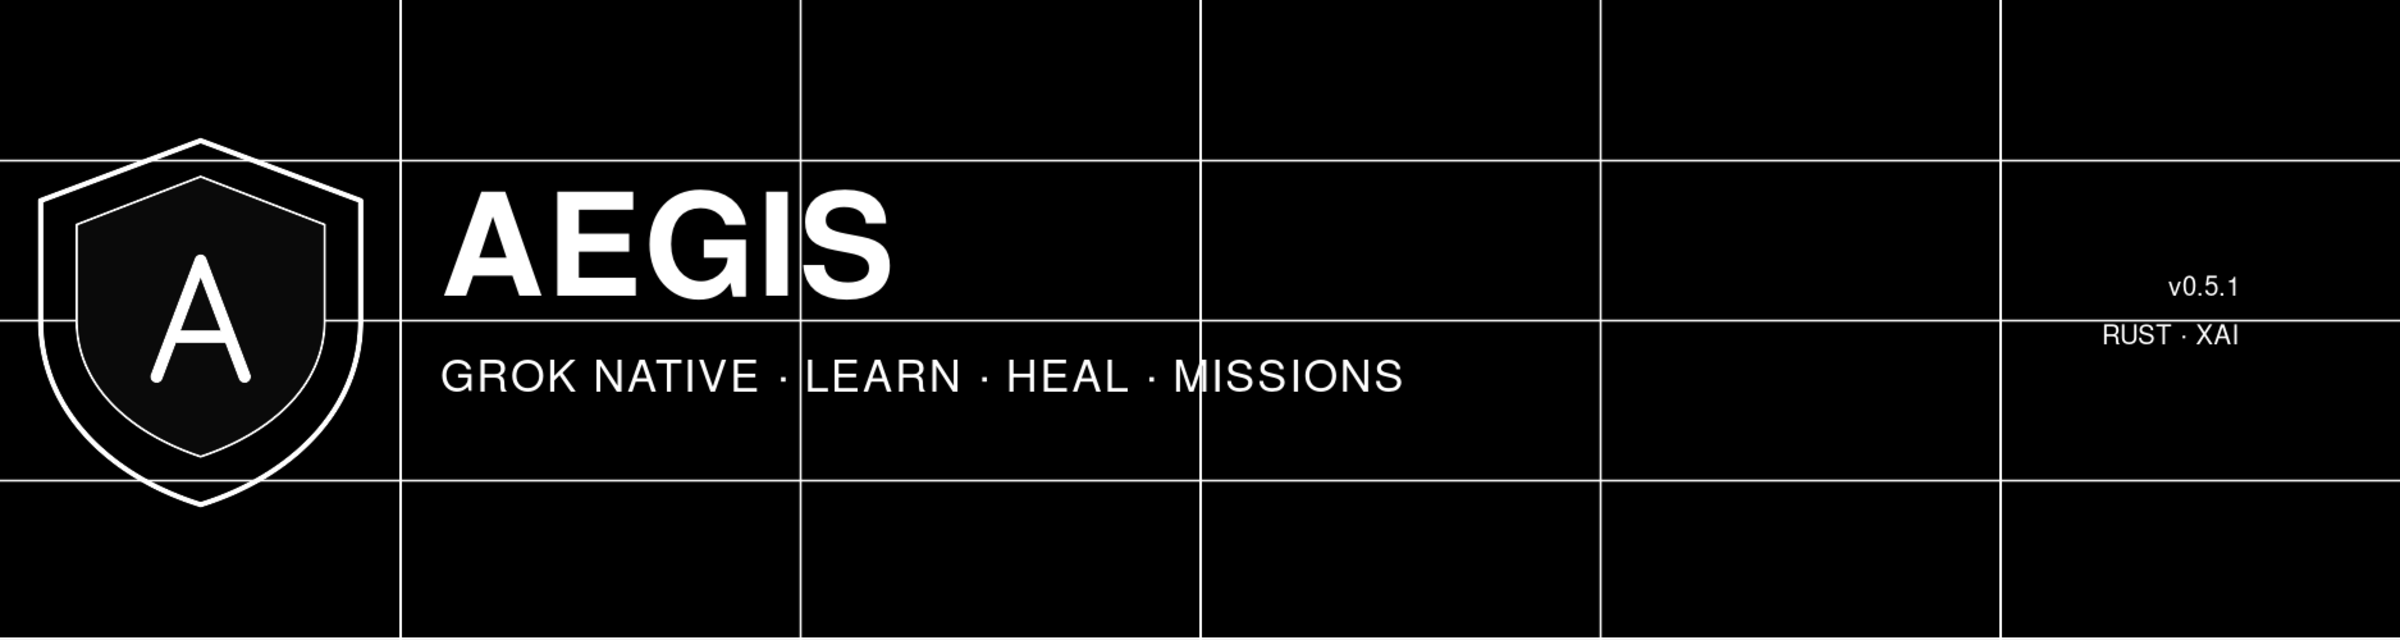
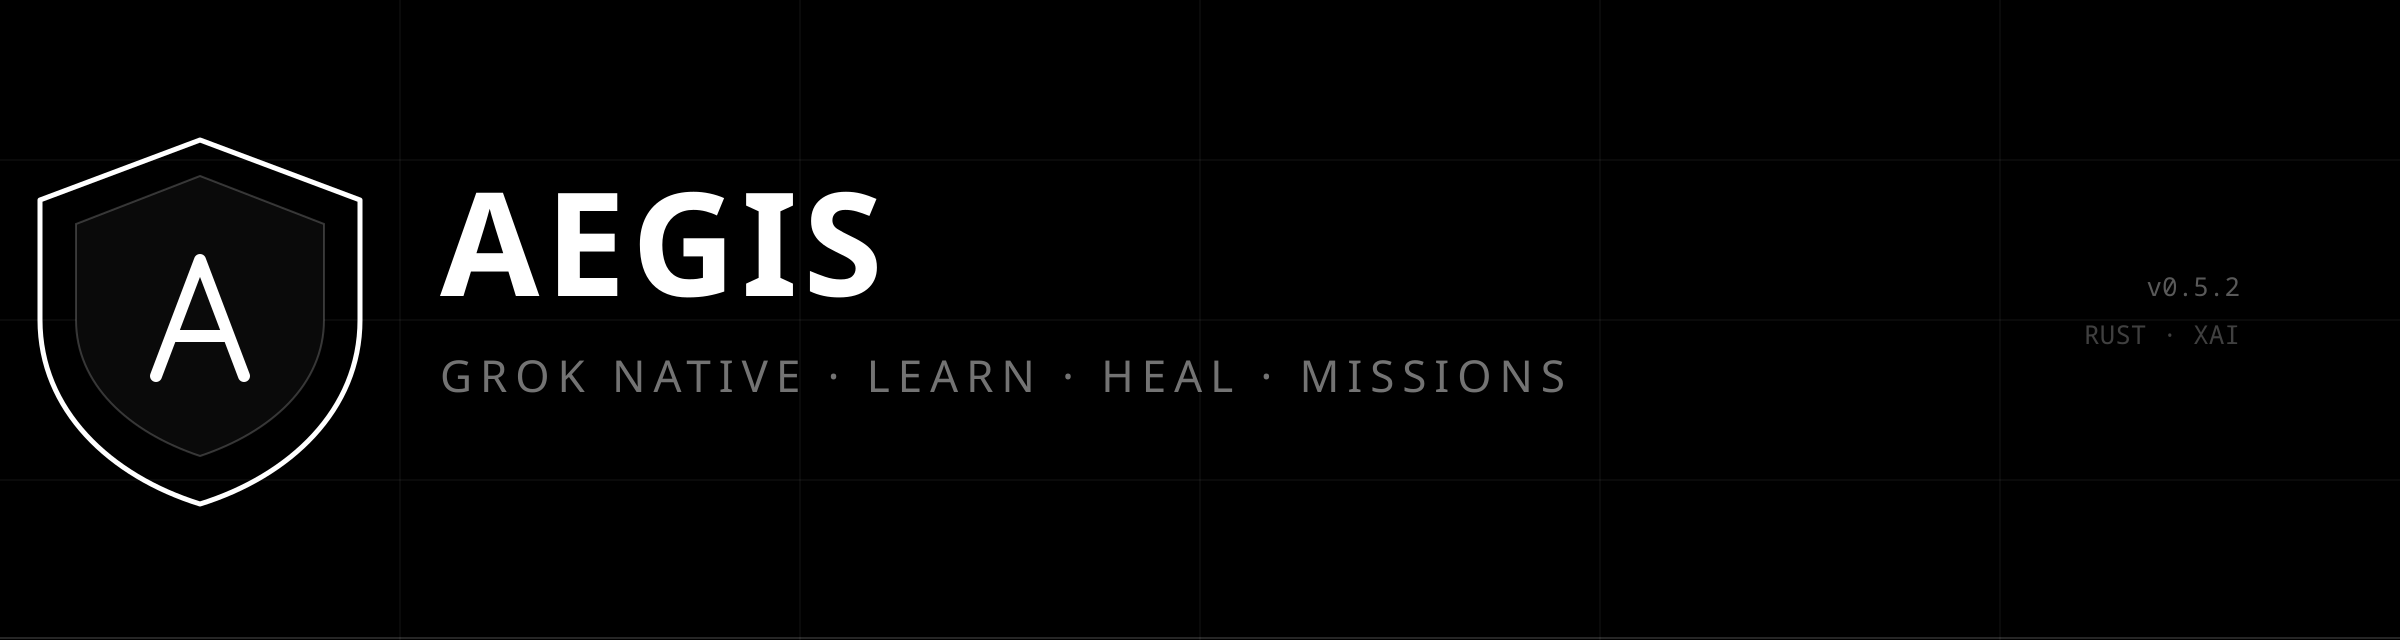
Finalize Aegis 0.5.2
Monochrome brand cleanup, orphan media removed, OG image,
RELEASE.md, version 0.5.2, gitignore seed policy, quality gates green.

diff --git a/docs/RELEASE.md b/docs/RELEASE.md
@@ -1,0 +1,60 @@
+# Release 0.5.2 — finalized
+
+**Status:** personal production-ready  
+**Date:** 2026-07-12  
+**Tag:** `v0.5.2`
+
+## Product
+
+Sovereign Grok-native coding agent in Rust:
+
+- OAuth via `~/.grok/auth.json`
+- Agent tools + Missions + project learning
+- Platform: dream, readiness, factory, wiki, QA, review, automations
+- Monochrome SpaceX / xAI CLI and brand
+
+## Install
+
+```bash
+git clone https://github.com/denster32/aegis.git
+cd aegis && ./install.sh
+aegis --version   # 0.5.2
+grok login && aegis auth status
+```
+
+## Verify
+
+```bash
+cargo fmt --all -- --check
+cargo test --workspace
+cargo clippy --workspace --all-targets -- -D warnings
+./scripts/live_smoke.sh
+# optional long:
+./scripts/stress_test.sh
+```
+
+## Assets (canonical)
+
+| File | Role |
+|------|------|
+| `assets/logo.svg` | Mark (README) |
+| `assets/logo.png` | Raster mark (vision fallback / tooling) |
+| `assets/banner.svg` | Hero (README) |
+| `assets/banner.png` | Raster hero |
+| `assets/learning-loop.svg` | Learning diagram (README) |
+| `assets/mission-control.svg` | Mission board art (README) |
+| `assets/dream-cycle.svg` | Dream pipeline |
+| `assets/og.png` | Social / preview (monochrome) |
+| `assets/screenshots/*` | Product shots (brand-kit, cli-surfaces, readme-preview) |
+
+## Not in scope
+
+- Multi-tenant sandboxing
+- Public GitHub Actions reliability (private runner quota)
+- Large unit-test expansion (stress harness is primary)
+
+## Maintain
+
+- Prefer OAuth over console API keys
+- Use `--yolo` only in trusted sandboxes
+- See [SECURITY.md](../SECURITY.md) and [features.md](features.md)

diff --git a/CHANGELOG.md b/CHANGELOG.md
@@ -1,5 +1,26 @@
 # Changelog
 
+## 0.5.2 — 2026-07-12
+
+### Final release polish
+
+- Monochrome SpaceX / xAI brand kit (logo, banner, learning loop, mission control, dream)
+- Regenerated grayscale PNG/OG assets; removed legacy colorful/orphan media
+- CLI visual system finalized (`aegis_core::ui`)
+- README centered mark + monochrome badges
+- Project audit + security hardening carried from 0.5.1
+- Screenshots: brand kit, CLI surfaces, README preview
+
+### Hygiene
+
+- Confirmed no leftover cyan/colorful CLI brand refs or dead silence stubs
+- Confirmed `failures_tests_extra` removed; factory Document stage sees `docs/wiki`
+- `.gitignore`: secrets/runtime ignored; skills/automations seeds remain trackable
+
+### Docs
+
+- [docs/features.md](docs/features.md) · [docs/audit-2026-07-12.md](docs/audit-2026-07-12.md) · [docs/RELEASE.md](docs/RELEASE.md)
+
 ## 0.5.1 — 2026-07-12
 
 ### Fixed

diff --git a/README.md b/README.md
@@ -10,7 +10,7 @@
 </p>
 
 <p align="center">
-  <img src="https://img.shields.io/badge/version-0.5.1-lightgrey?style=flat-square&labelColor=000000&color=ffffff" alt="version"/>
+  <img src="https://img.shields.io/badge/version-0.5.2-lightgrey?style=flat-square&labelColor=000000&color=ffffff" alt="version"/>
   <img src="https://img.shields.io/badge/rust-1.96+-lightgrey?style=flat-square&labelColor=000000&color=ffffff" alt="rust"/>
   <img src="https://img.shields.io/badge/license-MIT-lightgrey?style=flat-square&labelColor=000000&color=ffffff" alt="license"/>
   <img src="https://img.shields.io/badge/ui-monochrome-lightgrey?style=flat-square&labelColor=000000&color=ffffff" alt="ui"/>
@@ -90,7 +90,7 @@ aegis missions run <id>
 SpaceX / xAI monochrome: white primary · dim secondary · thin rules · geometric marks `● · ▸ ×`
 
 ```
-AEGIS  0.5.1
+AEGIS  0.5.2
 ────────────────────────────────────────────────────────
   session         a1b2c3d4
   model           grok-4.5

diff --git a/docs/features.md b/docs/features.md
@@ -1,6 +1,6 @@
 # Feature matrix
 
-Verified against CLI + crates as of **0.5.1**.
+Verified against CLI + crates as of **0.5.2**.
 
 ## Agent
 

diff --git a/docs/wiki/Home.md b/docs/wiki/Home.md
@@ -29,4 +29,4 @@ aegis auth status
 aegis -p "Reply with exactly: pong"
 ```
 
-Version target: **0.5.1+**.
+Version target: **0.5.2**.